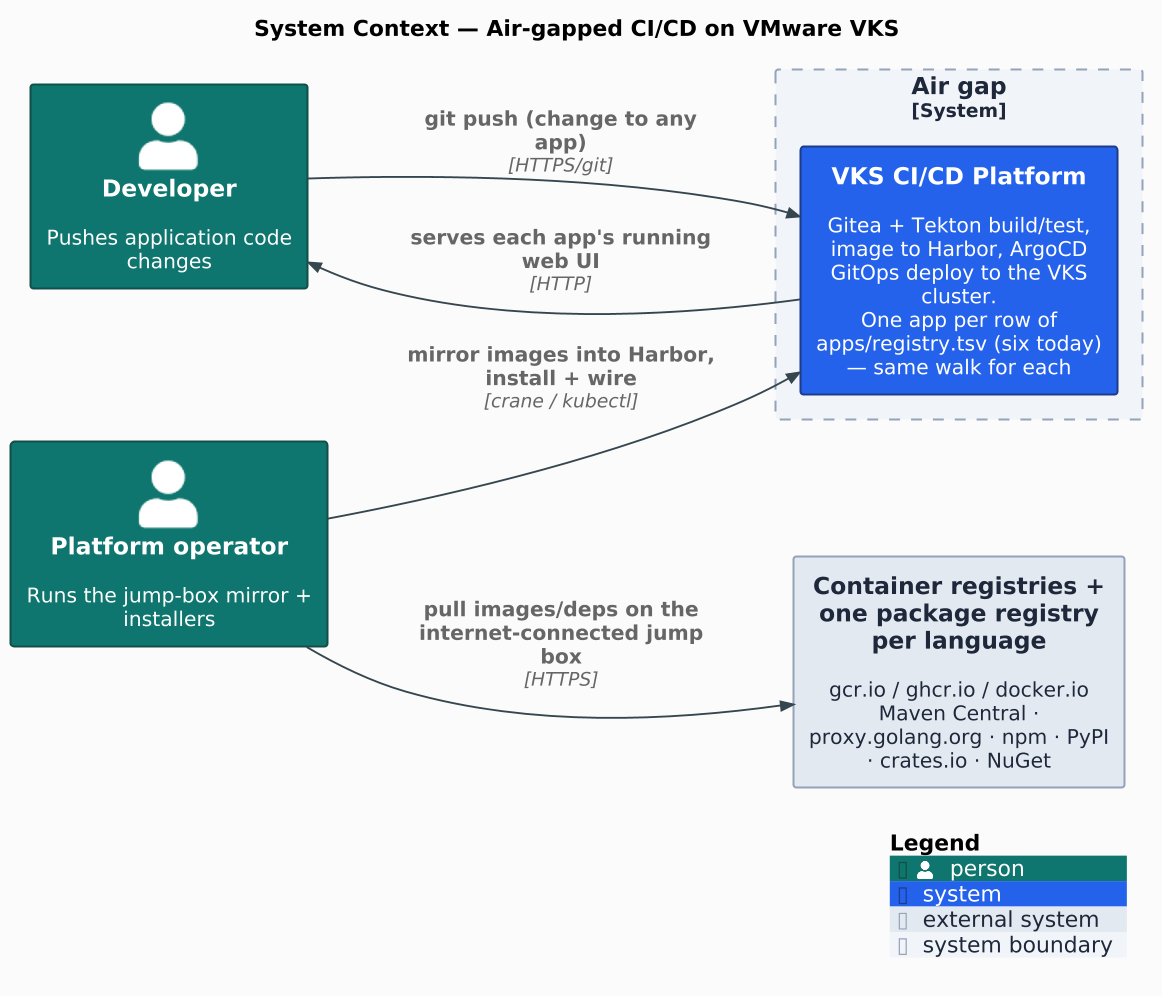
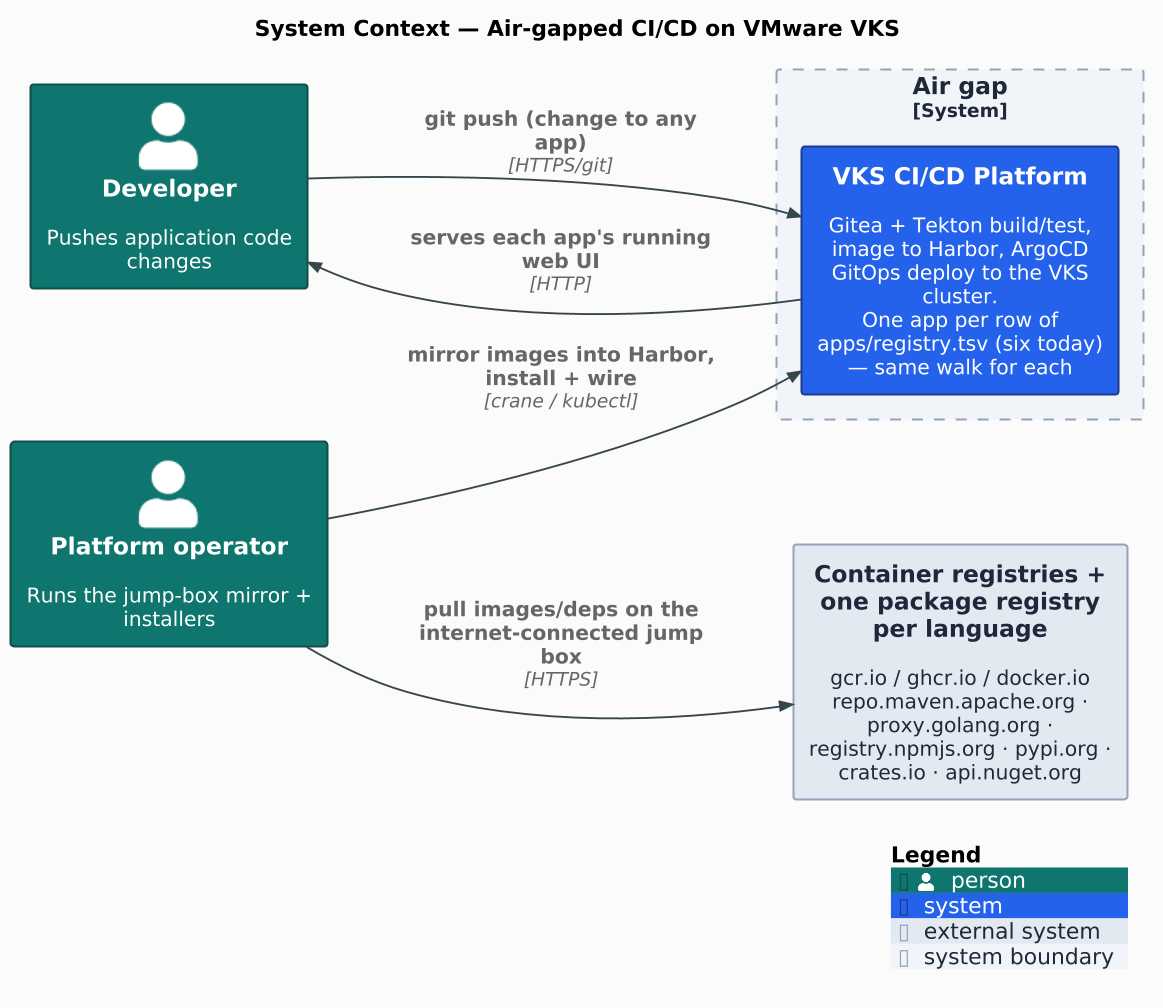
docs: end-user docs stop being a notebook; istio-preflight stops lying about absence (#1021)
Two classes, both end-user-facing.

1. DOCS WERE A NOTEBOOK, NOT A PRODUCT.

   Six user-facing documents carried dated internal notes ("Measured 2026-08-22, that
   is false", "This document used to say...", "On 2026-08-22 four rows were added").
   A reader who clones this repo is not an audience for our working history. Stripped
   from adding-an-app.md, ci-cd.md, sizing.md, scenario-1.md, vks-authentication.md
   and apps/registry.tsv.

   Six documents also still named TWO apps when the repo has SIX. The registry example
   in adding-an-app.md listed java+go only -- so the one document whose whole job is
   "here is how you add an app" showed a two-row registry. repository-layout.md listed
   two app dirs and asserted gowebapp has "No Dockerfile.builder" (it has one).
   architecture.md's alt text enumerated two apps and claimed "one lane per app", stale
   since the pipeline diagram became one shared lane.

   Registry naming was half-precise: three hostnames mixed with three brand names in
   one list ("proxy.golang.org, npm, pypi.org, crates.io, NuGet"). All six are now
   hostnames. And sizing.md's egress sentence read as a firewall allowlist it cannot
   support -- Go also contacts a checksum DB, pip a file CDN, cargo a separate index
   and CDN -- so it now says so and tells you to derive an allowlist by measuring.

2. istio-preflight CLAIMED ABSENCE IT HAD NOT OBSERVED (the tenant path).
[…]

diff --git a/docs/sizing.md b/docs/sizing.md
@@ -19,7 +19,7 @@ Kaniko, Maven, Temurin JDK/JRE, alpine/git, yq, and the ingress images). Figures
 
 Every app ships a `Dockerfile.builder` whose whole job is to bake its dependency cache, because an
 in-cluster build reaches no package registry. That is six images, not one, and they are the largest
-thing the jump box builds. **MEASURED 2026-08-23** (podman, `linux/amd64`, current pins):
+thing the jump box builds. * `linux/amd64`, current pins):
 
 | app | builder image | its upstream base |
 |---|---:|---:|
@@ -37,15 +37,18 @@ Derived from each app's `Dockerfile.builder` / `Dockerfile` (so it cannot drift 
 
 | app | build image | runtime base | cache it bakes | fetched from |
 |---|---|---|---|---|
-| `javawebapp` | `maven:3.9-eclipse-temurin-25` | `eclipse-temurin:…-jre-jammy` | `~/.m2` | Maven Central |
+| `javawebapp` | `maven:3.9-eclipse-temurin-25` | `eclipse-temurin:…-jre-jammy` | `~/.m2` | `repo.maven.apache.org` |
 | `gowebapp` | `golang:1.27.0-bookworm` | `distroless/static-debian12` | Go module cache | `proxy.golang.org` |
 | `nodejswebapp` | `node:24-alpine` | `node:24-alpine` | `node_modules` | `registry.npmjs.org` |
-| `pythonwebapp` | `python:3.14-alpine` | `python:3.14-alpine` | the venv | PyPI |
+| `pythonwebapp` | `python:3.14-alpine` | `python:3.14-alpine` | the venv | `pypi.org` |
 | `rustwebapp` | `rust:1.98-alpine` | `distroless/static-debian12` | cargo registry | `crates.io` |
-| `dotnetwebapp` | `mcr…/dotnet/sdk:10.0-alpine` | `mcr…/dotnet/aspnet:10.0-noble-chiseled` | NuGet cache | `nuget.org` |
+| `dotnetwebapp` | `mcr…/dotnet/sdk:10.0-alpine` | `mcr…/dotnet/aspnet:10.0-noble-chiseled` | NuGet cache | `api.nuget.org` |
 
-**The jump box needs egress to ALL SIX package registries**, not just Maven Central — `builder-build`
-fails on whichever one is blocked. Two apps (`nodejswebapp`, `pythonwebapp`) run on their build image
+**The jump box needs egress to ALL SIX package registries** — `builder-build` fails on whichever one
+is blocked. The `fetched from` column names each ecosystem's PRIMARY host; it is **not a complete
+firewall allowlist**, because several tools also contact a sibling host (Go a checksum DB, pip a
+file CDN, cargo a separate index and CDN). If you must build an allowlist, derive it by running
+`make builder-build` behind a logging proxy — do not transcribe this table. Two apps (`nodejswebapp`, `pythonwebapp`) run on their build image
 as the runtime base; two (`gowebapp`, `rustwebapp`) ship a static binary on `distroless/static`.
 
 Realistic floor for a **dual-homed six-app walk**, measured against a box that hit `ENOSPC` at 15 G used:
@@ -74,7 +77,7 @@ the **dual-homed** path too, because `make builder-image` is a thin orchestrator
 script. `bundle/images/` (crane's OCI layout) is a **separate** store from podman's, so those really
 are second copies.
 
-> **This is what a 16 GB ROOT FILESYSTEM runs out of, and it fails at the LAST app.** MEASURED 2026-08-23 on a
+> **This is what a 16 GB ROOT FILESYSTEM runs out of, and it fails at the LAST app.**
 > 16 GB Photon walkthrough VM: `make install-all` died in `builder-image` on the **sixth** builder —
 > `Error: committing container … no space left on device` while unpacking the NuGet cache — with
 > `/dev/sda2 16G 15G 558M 97%`. The VM's virtual disk was **40 GiB** — `lsblk` showed `sda` at 40 GiB

diff --git a/docs/adding-an-app.md b/docs/adding-an-app.md
@@ -7,9 +7,13 @@ branch in `scripts/lib/apps.sh`.
 The row:
 
 ```tsv
-# name        lang  src                   deploy
-javawebapp    java  apps/java/javawebapp  deploy/javawebapp
-gowebapp      go    apps/go/gowebapp      deploy/gowebapp
+# name        lang    src                       deploy
+javawebapp    java    apps/java/javawebapp      deploy/javawebapp
+gowebapp      go      apps/go/gowebapp          deploy/gowebapp
+nodejswebapp  nodejs  apps/nodejs/nodejswebapp  deploy/nodejswebapp
+pythonwebapp  python  apps/python/pythonwebapp  deploy/pythonwebapp
+rustwebapp    rust    apps/rust/rustwebapp      deploy/rustwebapp
+dotnetwebapp  dotnet  apps/dotnet/dotnetwebapp  deploy/dotnetwebapp
 ```
 
 Each app gets: its own Gitea repos (`<app>-app` + `<app>-deploy`), its own Tekton `Pipeline`
@@ -25,8 +29,7 @@ per-app `<APP>_HOST` variable — there used to be, and it meant a new row silen
 
 ## What differs per LANGUAGE (measured — it is not two things)
 
-This document used to say *"only two things differ per language"*. Measured 2026-08-22, that is
-false: `scripts/lib/apps.sh` carries **ten** per-language `case` branches — `app_test_task`,
+Several things differ per language, not two: false: `scripts/lib/apps.sh` carries **ten** per-language `case` branches — `app_test_task`,
 `app_set_message`, `app_builder_image`, `app_runtime_image`, `app_health_path`, `app_toolchain`,
 `app_build_args`, `app_builder_base`, `app_builder_arg` — plus three more outside it
 (`app-run.sh`, `app-test.sh`, `trivy-fs.sh`). And a further set is not a `case` at all but a **file

diff --git a/docs/vks-authentication.md b/docs/vks-authentication.md
@@ -123,14 +123,14 @@ Scenario 2's [Step 3b](scenario-2.md) has the full "just dump everything in ther
 **[Broadcom support portal](https://support.broadcom.com)** (with your entitlement) or the
 **Supervisor** (`https://<SUPERVISOR_HOST>/wcp/vcf-cli/…`). Broadcom's public artifactory
 (`packages.broadcom.com/artifactory/vcf-distro/vcf-cli/`) serves the CLI only through **≤ 9.0.x**
-and does not carry our pinned 9.1 (measured 2026-07-23), so there is no no-auth public download for
+and does not carry our pinned 9.1 so there is no no-auth public download for
 9.1 — use the portal, and keep `.env.example`'s pins in sync with what you place in the folder.
 
 **arm64 jump box — the VCF-flavored argocd is amd64-only.** Broadcom ships `argocd-vcf` for
 `linux-amd64` (and `darwin-amd64`), not `linux-arm64`, so on an arm64 box `make install-vcf-clis`
 dies at `install-argocd-vcf` with "no argocd artifact for linux/arm64". Use the **upstream argocd
 that `make deps` already installs** (arm64-native; Broadcom ships a **3.x** argocd CLI, and
-MEASURED 2026-08-17 the ArgoCD Service 1.1.0 publishes a **3.0.19** SERVER — so on that lab the CLI
+.1.0 publishes a **3.0.19** SERVER — so on that lab the CLI
 and server are the same generation. A CLI is deliberately tolerant across a server range either way;
 this specific upstream build against the lab server is not lab-verified), and install the rest with `make install-vcf-cli` +
 `make install-vcf-plugins` instead of `all`. The `vcf` CLI and plugin bundle are available for both

diff --git a/docs/repository-layout.md b/docs/repository-layout.md
@@ -6,8 +6,7 @@
 |------|---------|
 | `scripts/` | Ordered, OS-portable (Ubuntu+PhotonOS) automation; `lib/os.sh` + `lib/mirror.sh` are shared libraries |
 | `apps/registry.tsv` | **The app registry — one row per app.** Everything loops over it: seeding, Tekton, ArgoCD, ingress, PSA, the gates. Adding an app is **one row** |
-| `apps/java/javawebapp/` | Spring Boot app (seeded into Gitea `javawebapp-app`); `Dockerfile` + `Dockerfile.builder` (its offline Maven dependency cache) |
-| `apps/go/gowebapp/` | Go app, **stdlib-only** (seeded into `gowebapp-app`). No `Dockerfile.builder`: with zero modules the air-gapped build fetches nothing, so it needs no pre-baked dependency cache |
+| `apps/<lang>/<app>/` | One dir per row of `apps/registry.tsv` (six today: `java/javawebapp`, `go/gowebapp`, `nodejs/nodejswebapp`, `python/pythonwebapp`, `rust/rustwebapp`, `dotnet/dotnetwebapp`). Each dir IS the content of its `<app>-app` Gitea repo and holds a `Dockerfile` (runtime) **and** a `Dockerfile.builder` — the pre-baked dependency cache that lets the in-cluster build reach no package registry |
 | `deploy/<app>/` | Kustomize manifests ArgoCD deploys — one dir per app = one deploy repo. **Not applied by us** — seeded into Gitea `<app>-deploy`, which Tekton writes the image tag into and ArgoCD syncs |
 | `k8s/` | Everything **we** apply to the cluster |
 | `k8s/tekton/` | Tekton pipeline, tasks, triggers, RBAC |

diff --git a/docs/architecture.md b/docs/architecture.md
@@ -11,7 +11,7 @@ image into Harbor; a `git push` then drives the whole CI/CD flow entirely inside
 
 ### Containers
 
-<p align="center"><a href="diagrams/out/container.png"><img src="diagrams/out/container.png" alt="Container diagram — N apps (javawebapp, gowebapp) from apps/registry.tsv, one shared Tekton EventListener — click to enlarge" width="960"></a></p>
+<p align="center"><a href="diagrams/out/container.png"><img src="diagrams/out/container.png" alt="Container diagram — one app per row of apps/registry.tsv (six today), one shared Tekton EventListener — click to enlarge" width="960"></a></p>
 
 ### Deployment
 
@@ -30,7 +30,7 @@ in the guest. (The KinD stand-in collapses both levels into one cluster.)
 
 ### Pipeline flow
 
-<p align="center"><a href="diagrams/out/pipeline-flow.png"><img src="diagrams/out/pipeline-flow.png" alt="Pipeline flow — one lane per app (javawebapp, gowebapp) through the shared Tekton EventListener — click to enlarge" width="720"></a></p>
+<p align="center"><a href="diagrams/out/pipeline-flow.png"><img src="diagrams/out/pipeline-flow.png" alt="Pipeline flow — the same walk for every app, through the shared Tekton EventListener — click to enlarge" width="720"></a></p>
 
 Diagram sources are committed under [`docs/diagrams/`](diagrams/) (C4-PlantUML);
 `make diagrams` re-renders the PNGs and `make diagrams-check` fails CI if they drift.

diff --git a/docs/decisions/sneakernet.md b/docs/decisions/sneakernet.md
@@ -59,7 +59,7 @@ Split:
 
 | | box | network | how |
 |---|---|---|---|
-| `make builder-build` | A | the package registries only (Maven Central · proxy.golang.org · npm · PyPI · crates.io · NuGet) | base pinned **by digest from `bundle/images.lock`** — byte-identical to the mirrored base, so no Harbor is needed and builder↔mirror alignment holds *by construction* (`images.txt` pins maven by tag, so a naive public pull could legitimately differ) |
+| `make builder-build` | A | the package registries only (Maven Central · proxy.golang.org · npm · pypi.org · crates.io · NuGet) | base pinned **by digest from `bundle/images.lock`** — byte-identical to the mirrored base, so no Harbor is needed and builder↔mirror alignment holds *by construction* (`images.txt` pins maven by tag, so a naive public pull could legitimately differ) |
 | `make builder-push` | B | Harbor only | `crane push bundle/builders/<app>` — the destination ref is computed from `HARBOR_URL` **on box B**, which is the only box that knows it |
 | `make builder-image` | dual-homed | both | unchanged: build + push |
 

diff --git a/README.md b/README.md
@@ -39,12 +39,12 @@ internet-connected jump box, pushed to Harbor, and consumed offline:
 
 | app | cache it bakes | fetched from |
 |---|---|---|
-| `javawebapp` | `~/.m2` (`./mvnw -B verify`) | Maven Central |
+| `javawebapp` | `~/.m2` (`./mvnw -B verify`) | `repo.maven.apache.org` |
 | `gowebapp` | the Go module cache (`go mod download`) | `proxy.golang.org` |
 | `nodejswebapp` | `node_modules` (`npm ci`) | `registry.npmjs.org` |
-| `pythonwebapp` | the venv (`pip install -r requirements.txt`) | PyPI |
+| `pythonwebapp` | the venv (`pip install -r requirements.txt`) | `pypi.org` |
 | `rustwebapp` | the cargo registry (`cargo fetch --locked`) | `crates.io` |
-| `dotnetwebapp` | the NuGet cache (`dotnet restore`) | `nuget.org` |
+| `dotnetwebapp` | the NuGet cache (`dotnet restore`) | `api.nuget.org` |
 
 Adding an app is **one row** in `apps/registry.tsv` — see [Adding an app](docs/adding-an-app.md).
 

diff --git a/docs/ci-cd.md b/docs/ci-cd.md
@@ -19,7 +19,7 @@ Locally, `make ci` runs `static-check` + `docs-lint` + `diagrams-check`, and `st
 
 ⚠ **A PR does NOT run everything `make ci` does.** `static-check` and `static-check-fast` are
 **separate CI jobs**, so a change can pass the composite locally and still redden the fast half —
-measured 2026-08-21, when `check-ns-chokepoint` failed as a PR job while the full `static-check`
+when `check-ns-chokepoint` failed as a PR job while the full `static-check`
 passed. Run `env -u GOROOT make static-check` locally before relying on a green.
 
 ---

diff --git a/docs/scenario-1.md b/docs/scenario-1.md
@@ -972,7 +972,7 @@ Two runs on a 9.1 lab (i9-14900KF / 188 GiB) hosting the nested lab on the same 
 under self-contention. Where the runs disagree, both are shown.
 [Conditions](scenario-1-notes.md#timings--what-these-numbers-do-not-cover).
 
-⚠ **Measured 2026-08-09, when the repo shipped TWO apps.** It ships six now, and `mirror`,
+⚠ * when the repo shipped TWO apps.** It ships six now, and `mirror`,
 `builder-image`, the pipeline and `make verify` all scale with that — so read these as a floor, not
 a forecast.
 
